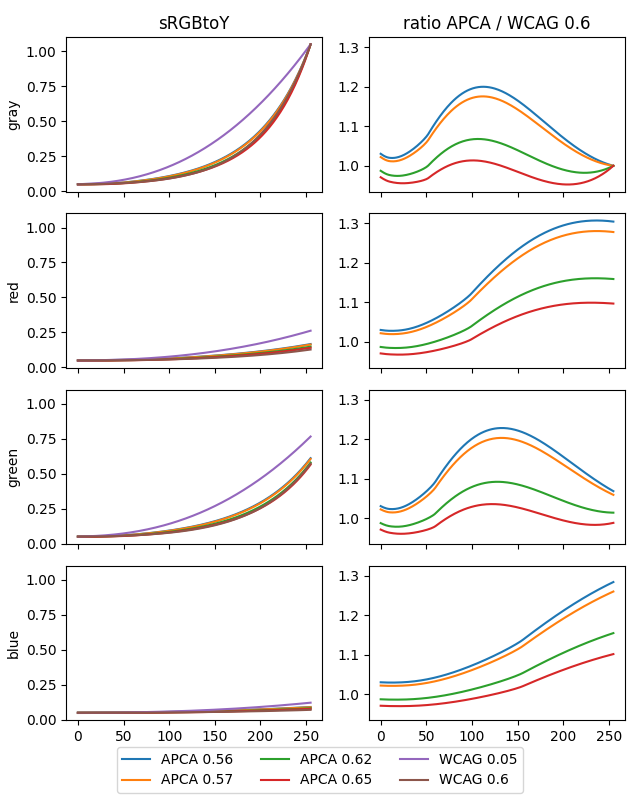
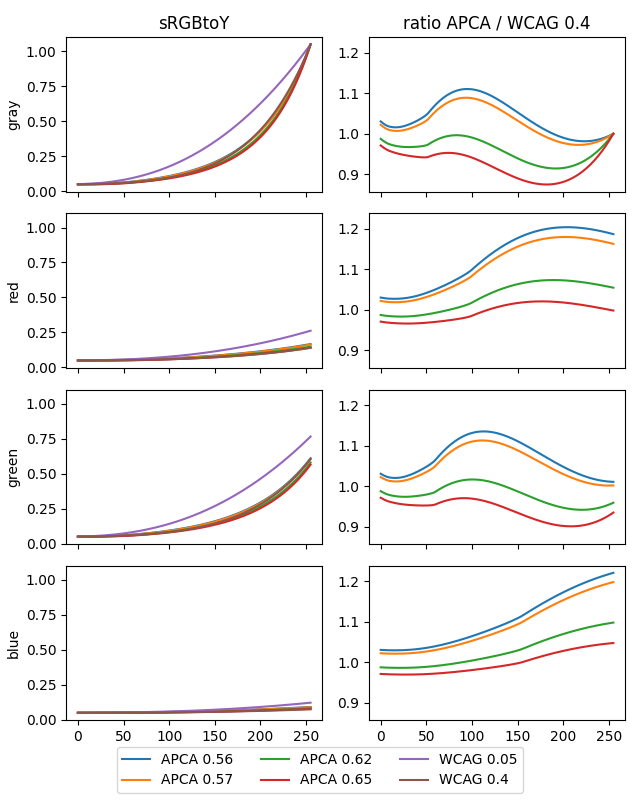
refine wcag6 value to 0.4

diff --git a/plots/sRGBtoY_comparison.py b/plots/sRGBtoY_comparison.py
@@ -37,7 +37,7 @@ if __name__ == '__main__':
 	fig, axes = plt.subplots(4, 2, sharex=True, sharey='col', figsize=(6.4, 8))
 
 	for i in range(4):
-		wcag6 = wcag(x, WCAG_FACTORS[i], 0.6)
+		wcag6 = wcag(x, WCAG_FACTORS[i], 0.4)
 
 		for exp in APCA_EXPONENTS:
 			y = apca(x, APCA_FACTORS[i], exp)
@@ -53,7 +53,7 @@ if __name__ == '__main__':
 	axes[3][0].set_ylabel('blue')
 
 	axes[0][0].set_title('sRGBtoY')
-	axes[0][1].set_title('ratio APCA / WCAG 0.6')
+	axes[0][1].set_title('ratio APCA / WCAG 0.4')
 
 	fig.legend([
 		'APCA 0.56',
@@ -61,7 +61,7 @@ if __name__ == '__main__':
 		'APCA 0.62',
 		'APCA 0.65',
 		'WCAG 0.05',
-		'WCAG 0.6',
+		'WCAG 0.4',
 	], ncol=3, loc='lower center')
 
 	plt.tight_layout()

diff --git a/analysis.md b/analysis.md
@@ -231,7 +231,7 @@ function normalize(y) {
 
 The four curves for APCA are very similar. Despite the very different formula,
 the WCAG 2.x curve also has a similar shape. I added a modified WCAG 2.x curve
-with an ambient light value of 0.6 instead of 0.05. This one is very similar
+with an ambient light value of 0.4 instead of 0.05. This one is very similar
 to the APCA curves. The second column shows the differences between the APCA
 curves and this modified WCAG 2.x.
 
